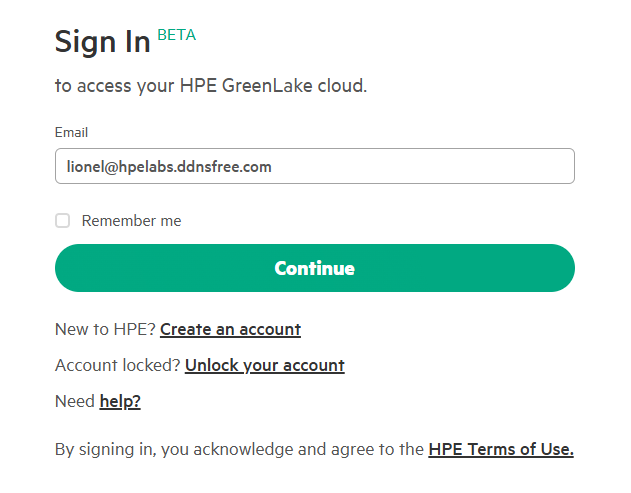
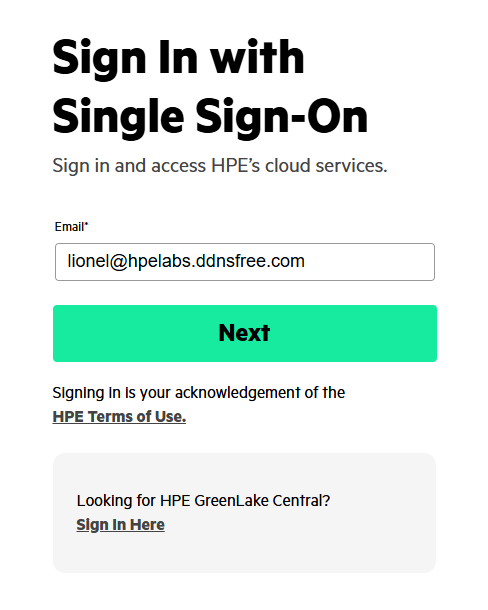
Update blog

diff --git a/_posts/2025-11-07-Configuring-SAML-SSO-with-HPE-GreenLake-and-Passwordless-Authentication-for-HPECOMCmdlets.md b/_posts/2025-11-07-Configuring-SAML-SSO-with-HPE-GreenLake-and-Passwordless-Authentication-for-HPECOMCmdlets.md
@@ -178,7 +178,7 @@ Before configuring the HPE GreenLake enterprise application in Entra ID, it's es
 
     [![]( {{ site.baseurl }}/assets/images/SAML-SSO/SAML-SSO-1.png)]( {{ site.baseurl }}/assets/images/SAML-SSO/SAML-SSO-1.png){:class="img-100pct"}{: data-lightbox="gallery"} 
 
-- Create a **Security** group for the HPE GreenLake application. Name it *HPE GreenLake* and add the members who will be granted access to the application. 
+- Create a **Security** group for the HPE GreenLake application. Name it `HPE GreenLake` and add the members who will be granted access to the application. 
 
     [![]( {{ site.baseurl }}/assets/images/SAML-SSO/SAML-SSO-2.png)]( {{ site.baseurl }}/assets/images/SAML-SSO/SAML-SSO-2.png){:class="img-600"}{: data-lightbox="gallery"} 
 
@@ -291,14 +291,14 @@ With the security group created, you can now proceed to register the HPE GreenLa
     - **Source**: `Attribute`
     - **Value**: Enter your constructed attribute value (see below)
 
-        The `hpe_ccs_attribute` value follows a specific format that defines workspace access, application permissions, and user roles. For detailed instructions on constructing this attribute value, including the required syntax and examples, refer to [Building hpe_ccs_attribute value](https://jullienl.github.io/Configuring-HPE-GreenLake-SSO-SAML-Authentication-with-ADFS/#building-hpe_ccs_attribute-value).
+        The `hpe_ccs_attribute` value follows a specific format that defines workspace access, application permissions, and user roles. For detailed instructions on constructing this attribute value, including the required syntax and examples, refer to [HPE GreenLake cloud SAML attribute for session-based authentication](https://support.hpe.com/hpesc/public/docDisplay?docId=a00120892en_us&page=GUID-237A2D36-D5D3-4514-915F-42B2ACDF825C.html#ariaid-title1).
 
         [![]( {{ site.baseurl }}/assets/images/SAML-SSO/SAML-SSO-20.png)]( {{ site.baseurl }}/assets/images/SAML-SSO/SAML-SSO-20.png){:class="img-100pct"}{: data-lightbox="gallery"}
 
         Example for one workspace and two applications (HPE GreenLake and COM):
 
-        ```         
-        version_1#248aa396805c11ed88e216588ab64ce9:00000000-0000-0000-0000-000000000000:Account Administrator:ALL_SCOPES:b394fa01-8858-4d73-8818-eadaf12eaf37:Administrator:ALL_SCOPES
+        ```yaml 
+        version_1#40aab0a48e5811f0bc31ca04dee87a18:00000000-0000-0000-0000-000000000000:Workspace Administrator:ALL_SCOPES:b394fa01-8858-4d73-8818-eadaf12eaf37:Compute Ops Management administrator:ALL_SCOPES
         ```
 
 - Remove any remaining default claims that were not explicitly configured above. Your final claims configuration should include only:
@@ -532,15 +532,15 @@ Service Provider (SP) initiated SSO is the authentication flow that begins when 
 
 **Authentication Flow**: User → HPE GreenLake → Entra ID → Back to HPE GreenLake
 
-1. To ensure a clean test without cached credentials, open a new private browser window (e.g., Incognito, InPrivate) and navigate to the HPE GreenLake login page: [https://common.cloud.hpe.com/newlogin](https://common.cloud.hpe.com/newlogin)
+1. To ensure a clean test without cached credentials, open a new private browser window (e.g., Incognito, InPrivate) and navigate to the HPE GreenLake login page: [https://common.cloud.hpe.com/](https://common.cloud.hpe.com/)
 
-2. Enter your verified email address from the SSO-claimed domain (e.g., `lionel@hpelabs.ddnsfree.com`) and click **Continue**
+2. Click on the **Sign in with SSO** button
 
-    [![]( {{ site.baseurl }}/assets/images/SAML-SSO/SAML-SSO-34.png)]( {{ site.baseurl }}/assets/images/SAML-SSO/SAML-SSO-34.png){:class="img-500"}{: data-lightbox="gallery"}
+    [![]( {{ site.baseurl }}/assets/images/SAML-SSO/SAML-SSO-34a.png)]( {{ site.baseurl }}/assets/images/SAML-SSO/SAML-SSO-34a.png){:class="img-400"}{: data-lightbox="gallery"}
 
-3. Click on **Organization Single Sign-On**
+3. Enter your verified email address from the SSO-claimed domain (e.g., `lionel@hpelabs.ddnsfree.com`) and click **Continue**
 
-    [![]( {{ site.baseurl }}/assets/images/SAML-SSO/SAML-SSO-35.png)]( {{ site.baseurl }}/assets/images/SAML-SSO/SAML-SSO-35.png){:class="img-400"}{: data-lightbox="gallery"}
+    [![]( {{ site.baseurl }}/assets/images/SAML-SSO/SAML-SSO-34.png)]( {{ site.baseurl }}/assets/images/SAML-SSO/SAML-SSO-34.png){:class="img-400"}{: data-lightbox="gallery"}
 
 4. You will be redirected to your Entra ID login page. Authenticate using your organizational credentials
 
@@ -551,6 +551,31 @@ Service Provider (SP) initiated SSO is the authentication flow that begins when 
 5. After successful authentication, you should be redirected back to HPE GreenLake and automatically logged in
 
     [![]( {{ site.baseurl }}/assets/images/SAML-SSO/SAML-SSO-37.png)]( {{ site.baseurl }}/assets/images/SAML-SSO/SAML-SSO-37.png){:class="img-100pct"}{: data-lightbox="gallery"}
+
+#### Verify the authentication
+
+- **Confirm User Profile and Access**:
+    - Verify that your user profile information (name, email) is displayed correctly in the HPE GreenLake console.
+
+       [![]( {{ site.baseurl }}/assets/images/SAML-SSO/SAML-SSO-36a.png)]( {{ site.baseurl }}/assets/images/SAML-SSO/SAML-SSO-36a.png){:class="img-900"}{: data-lightbox="gallery"}
+
+    - Ensure you have access to the expected workspaces and resources.
+<br>
+
+- **Verify Role-Based Permissions (if applicable)**:
+
+    - If you configured the `hpe_ccs_attribute` for SAML-based role assignments, confirm that the correct roles have been applied:
+
+        1. Navigate to **Manage workspace** → **Identity & access management** → **Users**.
+
+        2. Locate your user account, which should be identified with an **SSO** authorization source.
+
+            [![]( {{ site.baseurl }}/assets/images/SAML-SSO/SAML-SSO-37c.png)]( {{ site.baseurl }}/assets/images/SAML-SSO/SAML-SSO-37c.png){:class="img-100pct"}{: data-lightbox="gallery"}
+
+        3. Select your user and verify that the assigned roles match the permissions defined in your `hpe_ccs_attribute`.
+
+            [![]( {{ site.baseurl }}/assets/images/SAML-SSO/SAML-SSO-37d.png)]( {{ site.baseurl }}/assets/images/SAML-SSO/SAML-SSO-37d.png){:class="img-100pct"}{: data-lightbox="gallery"}
+
 
 #### Test the SSO IdP-Initiated login flow (User starts at Entra ID portal)
 
@@ -571,11 +596,6 @@ Identity Provider initiated SSO (IdP-Initiated) provides users with direct acces
 4. Verify successful authentication by confirming your user profile and workspace access are displayed correctly in the HPE GreenLake console
 
 
-#### Verify the authentication
-
-- Confirm that your user profile displays correctly in HPE GreenLake
-- Check that the appropriate workspace access and permissions are applied
-- If you configured `hpe_ccs_attribute`, verify that role-based permissions are correctly assigned
 
 #### Troubleshooting
 
@@ -900,7 +920,7 @@ Before configuring the HPE GreenLake enterprise application in Okta, it's essent
 
     [![]( {{ site.baseurl }}/assets/images/SAML-SSO/SAML-SSO-46.png)]( {{ site.baseurl }}/assets/images/SAML-SSO/SAML-SSO-46.png){:class="img-100pct"}{: data-lightbox="gallery"} 
 
-- Create a group for the HPE GreenLake application. Name it *HPE GreenLake* and add the members who will be granted access to the application. 
+- Create a group for the HPE GreenLake application. Name it `HPE GreenLake` and add the members who will be granted access to the application. 
 
     [![]( {{ site.baseurl }}/assets/images/SAML-SSO/SAML-SSO-47.png)]( {{ site.baseurl }}/assets/images/SAML-SSO/SAML-SSO-47.png){:class="img-100pct"}{: data-lightbox="gallery"} 
 
@@ -969,12 +989,12 @@ With the security group created, you can now proceed to register the HPE GreenLa
 
         **To configure this attribute:**
 
-        The `hpe_ccs_attribute` value follows a specific format that defines workspace access, application permissions, and user roles. For detailed instructions on constructing this attribute value, including the required syntax and examples, refer to [Building hpe_ccs_attribute value](https://jullienl.github.io/Configuring-HPE-GreenLake-SSO-SAML-Authentication-with-ADFS/#building-hpe_ccs_attribute-value).
+        The `hpe_ccs_attribute` value follows a specific format that defines workspace access, application permissions, and user roles. For detailed instructions on constructing this attribute value, including the required syntax and examples, refer to [HPE GreenLake cloud SAML attribute for session-based authentication](https://support.hpe.com/hpesc/public/docDisplay?docId=a00120892en_us&page=GUID-237A2D36-D5D3-4514-915F-42B2ACDF825C.html#ariaid-title1).
 
         **Example attribute value** for one workspace and two applications (HPE GreenLake and COM):
 
-        ```
-        version_1#248aa396805c11ed88e216588ab64ce9:00000000-0000-0000-0000-000000000000:Account Administrator:ALL_SCOPES:b394fa01-8858-4d73-8818-eadaf12eaf37:Administrator:ALL_SCOPES
+        ```yaml 
+        version_1#40aab0a48e5811f0bc31ca04dee87a18:00000000-0000-0000-0000-000000000000:Workspace Administrator:ALL_SCOPES:b394fa01-8858-4d73-8818-eadaf12eaf37:Compute Ops Management administrator:ALL_SCOPES
         ```
 
 - Click **Next** to proceed to the feedback page
@@ -1038,15 +1058,15 @@ Service Provider (SP) initiated SSO is the authentication flow that begins when 
 
 **Authentication Flow**: User → HPE GreenLake → Okta → Back to HPE GreenLake
 
-1. Navigate to the HPE GreenLake SSO login page: [https://common.cloud.hpe.com/](https://common.cloud.hpe.com/)
+1. To ensure a clean test without cached credentials, open a new private browser window (e.g., Incognito, InPrivate) and navigate to the HPE GreenLake login page: [https://common.cloud.hpe.com/](https://common.cloud.hpe.com/)
 
-2. Enter your verified email address from the SSO-claimed domain (e.g., `jullienl@4lldxf.onmicrosoft.com`) and click **Continue**
+2. Click on the **Sign in with SSO** button
+
+    [![]( {{ site.baseurl }}/assets/images/SAML-SSO/SAML-SSO-34a.png)]( {{ site.baseurl }}/assets/images/SAML-SSO/SAML-SSO-34a.png){:class="img-400"}{: data-lightbox="gallery"}
+
+3. Enter your verified email address from the SSO-claimed domain (e.g., `lionel@hpelabs.ddnsfree.com`) and click **Continue**
 
     [![]( {{ site.baseurl }}/assets/images/SAML-SSO/SAML-SSO-34.png)]( {{ site.baseurl }}/assets/images/SAML-SSO/SAML-SSO-34.png){:class="img-400"}{: data-lightbox="gallery"}
-
-3. Click on **Organization Single Sign-On**
-
-    [![]( {{ site.baseurl }}/assets/images/SAML-SSO/SAML-SSO-35.png)]( {{ site.baseurl }}/assets/images/SAML-SSO/SAML-SSO-35.png){:class="img-400"}{: data-lightbox="gallery"}
 
 4. You will be redirected to your Okta login page. Authenticate using your organizational credentials
 
@@ -1057,6 +1077,30 @@ Service Provider (SP) initiated SSO is the authentication flow that begins when 
 5. After successful authentication, you should be redirected back to HPE GreenLake and automatically logged in
 
     [![]( {{ site.baseurl }}/assets/images/SAML-SSO/SAML-SSO-37.png)]( {{ site.baseurl }}/assets/images/SAML-SSO/SAML-SSO-37.png){:class="img-100pct"}{: data-lightbox="gallery"}
+
+#### Verify the authentication
+
+- **Confirm User Profile and Access**:
+    - Verify that your user profile information (name, email) is displayed correctly in the HPE GreenLake console.
+
+       [![]( {{ site.baseurl }}/assets/images/SAML-SSO/SAML-SSO-36a.png)]( {{ site.baseurl }}/assets/images/SAML-SSO/SAML-SSO-36a.png){:class="img-900"}{: data-lightbox="gallery"}
+
+    - Ensure you have access to the expected workspaces and resources.
+<br>
+
+- **Verify Role-Based Permissions (if applicable)**:
+
+    - If you configured the `hpe_ccs_attribute` for SAML-based role assignments, confirm that the correct roles have been applied:
+
+        1. Navigate to **Manage workspace** → **Identity & access management** → **Users**.
+
+        2. Locate your user account, which should be identified with an **SSO** authorization source.
+
+            [![]( {{ site.baseurl }}/assets/images/SAML-SSO/SAML-SSO-37c.png)]( {{ site.baseurl }}/assets/images/SAML-SSO/SAML-SSO-37c.png){:class="img-100pct"}{: data-lightbox="gallery"}
+
+        3. Select your user and verify that the assigned roles match the permissions defined in your `hpe_ccs_attribute`.
+
+            [![]( {{ site.baseurl }}/assets/images/SAML-SSO/SAML-SSO-37d.png)]( {{ site.baseurl }}/assets/images/SAML-SSO/SAML-SSO-37d.png){:class="img-100pct"}{: data-lightbox="gallery"}
 
 #### Test the SSO IdP-Initiated login flow (User starts at Okta portal)
 
@@ -1073,13 +1117,6 @@ Identity Provider initiated SSO (IdP-Initiated) enables users to access HPE Gree
 3. You should be automatically redirected to HPE GreenLake and logged in without additional authentication prompts (assuming you've already authenticated to Okta)
 
 4. Verify successful authentication by confirming your user profile and workspace access are displayed correctly in the HPE GreenLake console
-
-
-**Verify the authentication:**
-
-- Confirm that your user profile displays correctly in HPE GreenLake
-- Check that the appropriate workspace access and permissions are applied
-- If you configured `hpe_ccs_attribute`, verify that role-based permissions are correctly assigned
 
 #### Troubleshooting
 
@@ -1540,12 +1577,12 @@ With the security group created, you can now proceed to register the HPE GreenLa
 
         **To configure this attribute:**
 
-        The `hpe_ccs_attribute` value follows a specific format that defines workspace access, application permissions, and user roles. For detailed instructions on constructing this attribute value, including the required syntax and examples, refer to [Building hpe_ccs_attribute value](https://jullienl.github.io/Configuring-HPE-GreenLake-SSO-SAML-Authentication-with-ADFS/#building-hpe_ccs_attribute-value).
+        The `hpe_ccs_attribute` value follows a specific format that defines workspace access, application permissions, and user roles. For detailed instructions on constructing this attribute value, including the required syntax and examples, refer to [HPE GreenLake cloud SAML attribute for session-based authentication](https://support.hpe.com/hpesc/public/docDisplay?docId=a00120892en_us&page=GUID-237A2D36-D5D3-4514-915F-42B2ACDF825C.html#ariaid-title1).
 
         **Example attribute value** for one workspace and two applications (HPE GreenLake and COM):
 
-        ```
-        version_1#248aa396805c11ed88e216588ab64ce9:00000000-0000-0000-0000-000000000000:Account Administrator:ALL_SCOPES:b394fa01-8858-4d73-8818-eadaf12eaf37:Administrator:ALL_SCOPES
+        ```yaml 
+        version_1#40aab0a48e5811f0bc31ca04dee87a18:00000000-0000-0000-0000-000000000000:Workspace Administrator:ALL_SCOPES:b394fa01-8858-4d73-8818-eadaf12eaf37:Compute Ops Management administrator:ALL_SCOPES
         ```
 
         **Steps to add this attribute in Ping Identity:**
@@ -1647,23 +1684,50 @@ Service Provider (SP) initiated SSO is the authentication flow that begins when 
 
 **Authentication Flow**: User → HPE GreenLake → Ping Identity → Back to HPE GreenLake
 
-1. Navigate to the HPE GreenLake SSO login page: [https://common.cloud.hpe.com/](https://common.cloud.hpe.com/)
+1. To ensure a clean test without cached credentials, open a new private browser window (e.g., Incognito, InPrivate) and navigate to the HPE GreenLake login page: [https://common.cloud.hpe.com/](https://common.cloud.hpe.com/)
 
-2. Enter your verified email address from the SSO-claimed domain (e.g., `jullienl@4lldxf.onmicrosoft.com`) and click **Continue**
+2. Click on the **Sign in with SSO** button
 
-    [![]( {{ site.baseurl }}/assets/images/SAML-SSO/SAML-SSO-34.png)]( {{ site.baseurl }}/assets/images/SAML-SSO/SAML-SSO-34.png){:class="img-500"}{: data-lightbox="gallery"}
+    [![]( {{ site.baseurl }}/assets/images/SAML-SSO/SAML-SSO-34a.png)]( {{ site.baseurl }}/assets/images/SAML-SSO/SAML-SSO-34a.png){:class="img-400"}{: data-lightbox="gallery"}
 
-3. Click on **Organization Single Sign-On**
+3. Enter your verified email address from the SSO-claimed domain (e.g., `lionel@hpelabs.ddnsfree.com`) and click **Continue**
 
-    [![]( {{ site.baseurl }}/assets/images/SAML-SSO/SAML-SSO-35.png)]( {{ site.baseurl }}/assets/images/SAML-SSO/SAML-SSO-35.png){:class="img-400"}{: data-lightbox="gallery"}
+    [![]( {{ site.baseurl }}/assets/images/SAML-SSO/SAML-SSO-34.png)]( {{ site.baseurl }}/assets/images/SAML-SSO/SAML-SSO-34.png){:class="img-400"}{: data-lightbox="gallery"}
 
 4. You will be redirected to your Ping Identity login page. Authenticate using your organizational credentials
+
+    [![]( {{ site.baseurl }}/assets/images/SAML-SSO/SAML-SSO-34b.png)]( {{ site.baseurl }}/assets/images/SAML-SSO/SAML-SSO-34b.png){:class="img-400"}{: data-lightbox="gallery"}
 
     > **Note**: If prompted for multi-factor authentication, complete the required authentication method (such as push notification approval or TOTP code) configured in your Ping Identity policy.
 
 5. After successful authentication, you should be redirected back to HPE GreenLake and automatically logged in
 
     [![]( {{ site.baseurl }}/assets/images/SAML-SSO/SAML-SSO-37.png)]( {{ site.baseurl }}/assets/images/SAML-SSO/SAML-SSO-37.png){:class="img-100pct"}{: data-lightbox="gallery"}
+
+#### Verify the authentication
+
+- **Confirm User Profile and Access**:
+    - Verify that your user profile information (name, email) is displayed correctly in the HPE GreenLake console.
+
+       [![]( {{ site.baseurl }}/assets/images/SAML-SSO/SAML-SSO-36a.png)]( {{ site.baseurl }}/assets/images/SAML-SSO/SAML-SSO-36a.png){:class="img-900"}{: data-lightbox="gallery"}
+
+    - Ensure you have access to the expected workspaces and resources.
+<br>
+
+- **Verify Role-Based Permissions (if applicable)**:
+
+    - If you configured the `hpe_ccs_attribute` for SAML-based role assignments, confirm that the correct roles have been applied:
+
+        1. Navigate to **Manage workspace** → **Identity & access management** → **Users**.
+
+        2. Locate your user account, which should be identified with an **SSO** authorization source.
+
+            [![]( {{ site.baseurl }}/assets/images/SAML-SSO/SAML-SSO-37c.png)]( {{ site.baseurl }}/assets/images/SAML-SSO/SAML-SSO-37c.png){:class="img-100pct"}{: data-lightbox="gallery"}
+
+        3. Select your user and verify that the assigned roles match the permissions defined in your `hpe_ccs_attribute`.
+
+            [![]( {{ site.baseurl }}/assets/images/SAML-SSO/SAML-SSO-37d.png)]( {{ site.baseurl }}/assets/images/SAML-SSO/SAML-SSO-37d.png){:class="img-100pct"}{: data-lightbox="gallery"}
+
 
 #### Test the SSO IdP-Initiated login flow (User starts at PingOne Apps portal)
 
@@ -1681,11 +1745,6 @@ Identity Provider initiated SSO (IdP-Initiated) provides users with direct acces
 
 4. Verify successful authentication by confirming your user profile and workspace access are displayed correctly in the HPE GreenLake console
 
-**Verify the authentication:**
-
-- Confirm that your user profile displays correctly in HPE GreenLake
-- Check that the appropriate workspace access and permissions are applied
-- If you configured `hpe_ccs_attribute`, verify that role-based permissions are correctly assigned
 
 #### Troubleshooting
 
